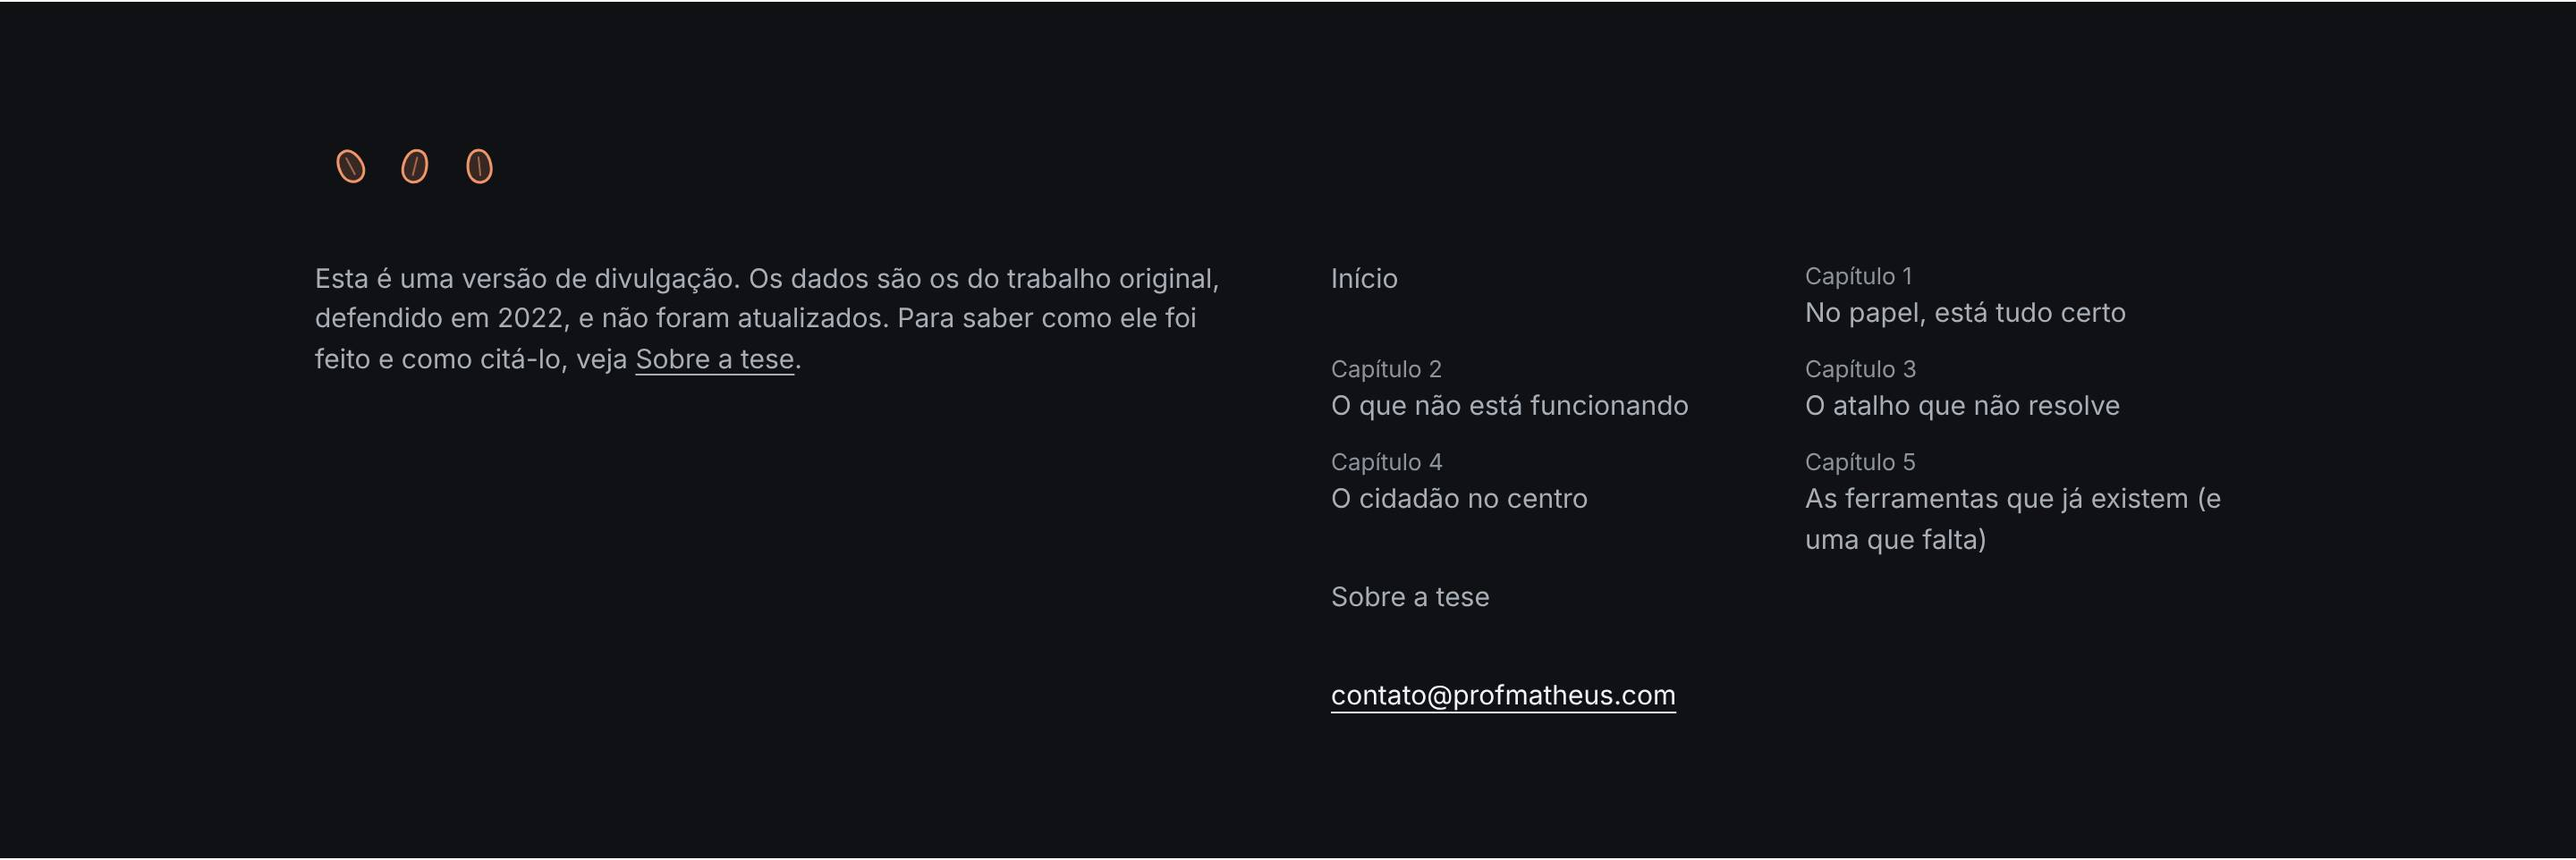
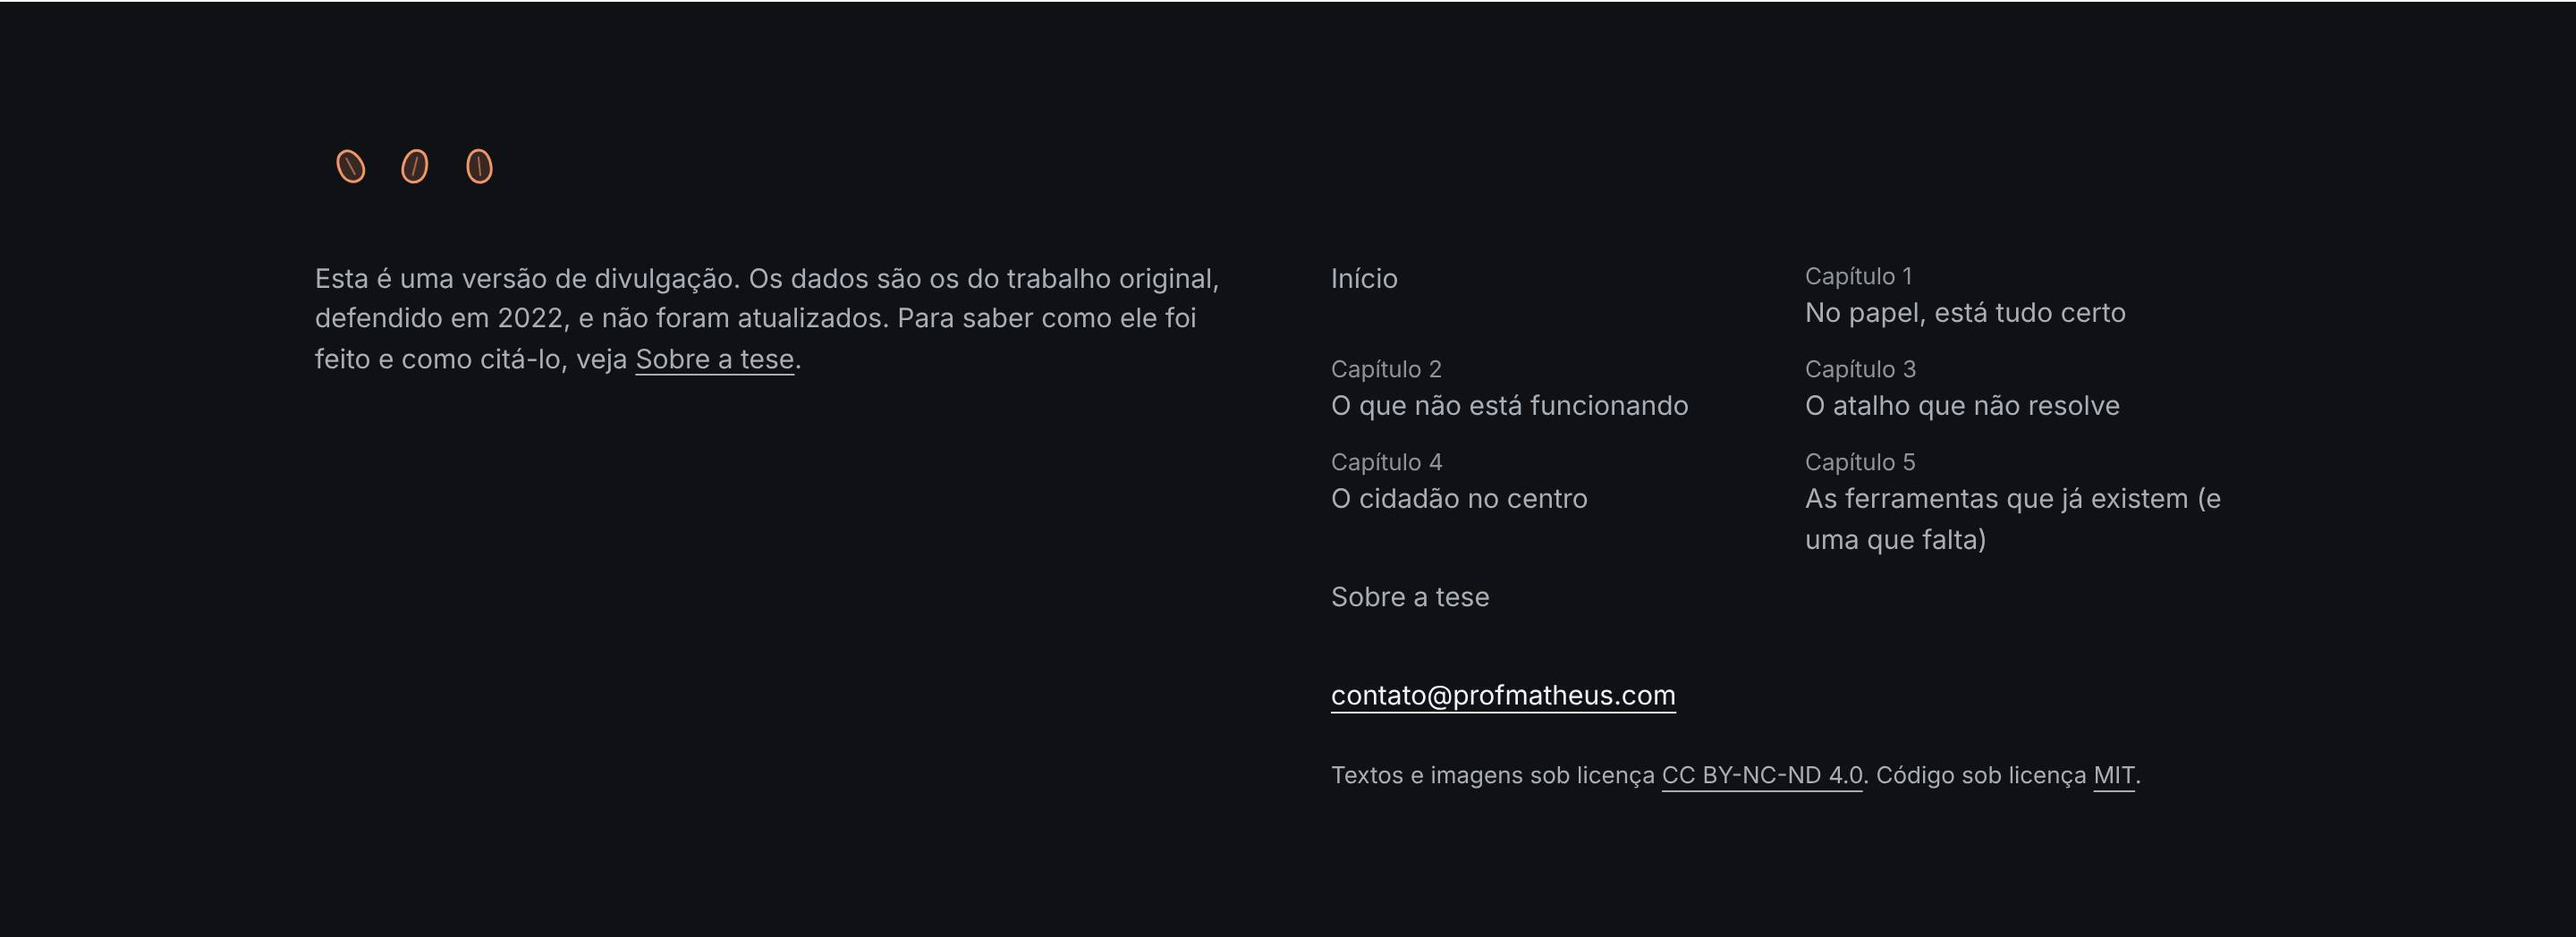
Licenças MIT e CC BY-NC-ND 4.0; linha T49 no rodapé (D76)
Claude-Session: https://claude.ai/code/session_01DNveZx4JkF5p4oM4SR99yX

diff --git a/LICENSE-CONTEUDO.md b/LICENSE-CONTEUDO.md
@@ -1,0 +1,186 @@
+# Licença dos textos e das imagens
+
+Os textos e as imagens deste repositório e do site
+[tese.profmatheuspassos.com.br](https://tese.profmatheuspassos.com.br) são de Matheus Passos
+Silva e estão sob a licença **Creative Commons Atribuição-NãoComercial-SemDerivações 4.0
+Internacional (CC BY-NC-ND 4.0)**: podem ser copiados e compartilhados, com crédito ao autor,
+sem fins comerciais e sem alterações.
+
+Resumo oficial em português: https://creativecommons.org/licenses/by-nc-nd/4.0/deed.pt-br
+
+## O que esta licença cobre
+
+- `src/content/`: o texto das páginas do site;
+- `src/i18n/`: os rótulos de interface;
+- `src/data/dados.json`: a organização dos dados mostrados no site (os números citados de outras
+  fontes, sempre com a fonte, seguem as condições dessas fontes);
+- `public/img/`: as imagens ilustrativas e a imagem de compartilhamento;
+- `docs/`: notas de leitura, decisões, rastreabilidade, planos e capturas.
+
+O código (scripts, componentes, estilos, configuração e workflow) está sob a licença MIT, no
+arquivo `LICENSE`. A tese original não está neste repositório; a versão oficial é a do
+repositório da Universidade de Lisboa (https://hdl.handle.net/10451/57093), com as condições
+de lá.
+
+## Texto jurídico da licença
+
+O texto abaixo é o texto oficial da licença, em inglês
+(https://creativecommons.org/licenses/by-nc-nd/4.0/legalcode).
+
+```text
+Creative Commons Attribution-NonCommercial-NoDerivatives 4.0 International
+
+  Creative Commons Corporation (“Creative Commons”) is not a law firm and does not provide legal services or legal advice. Distribution of Creative Commons public licenses does not create a lawyer-client or other relationship. Creative Commons makes its licenses and related information available on an “as-is” basis. Creative Commons gives no warranties regarding its licenses, any material licensed under their terms and conditions, or any related information. Creative Commons disclaims all liability for damages resulting from their use to the fullest extent possible.
+
+Using Creative Commons Public Licenses
+
+Creative Commons public licenses provide a standard set of terms and conditions that creators and other rights holders may use to share original works of authorship and other material subject to copyright and certain other rights specified in the public license below. The following considerations are for informational purposes only, are not exhaustive, and do not form part of our licenses.
+
+Considerations for licensors: Our public licenses are intended for use by those authorized to give the public permission to use material in ways otherwise restricted by copyright and certain other rights. Our licenses are irrevocable. Licensors should read and understand the terms and conditions of the license they choose before applying it. Licensors should also secure all rights necessary before applying our licenses so that the public can reuse the material as expected. Licensors should clearly mark any material not subject to the license. This includes other CC-licensed material, or material used under an exception or limitation to copyright. More considerations for licensors.
+
+Considerations for the public: By using one of our public licenses, a licensor grants the public permission to use the licensed material under specified terms and conditions. If the licensor’s permission is not necessary for any reason–for example, because of any applicable exception or limitation to copyright–then that use is not regulated by the license. Our licenses grant only permissions under copyright and certain other rights that a licensor has authority to grant. Use of the licensed material may still be restricted for other reasons, including because others have copyright or other rights in the material. A licensor may make special requests, such as asking that all changes be marked or described. Although not required by our licenses, you are encouraged to respect those requests where reasonable. More considerations for the public.
+
+Creative Commons Attribution-NonCommercial-NoDerivatives 4.0 International Public License
+
+By exercising the Licensed Rights (defined below), You accept and agree to be bound by the terms and conditions of this Creative Commons Attribution-NonCommercial-NoDerivatives 4.0 International Public License ("Public License"). To the extent this Public License may be interpreted as a contract, You are granted the Licensed Rights in consideration of Your acceptance of these terms and conditions, and the Licensor grants You such rights in consideration of benefits the Licensor receives from making the Licensed Material available under these terms and conditions.
+
+Section 1 – Definitions.
+
+     a.	Adapted Material means material subject to Copyright and Similar Rights that is derived from or based upon the Licensed Material and in which the Licensed Material is translated, altered, arranged, transformed, or otherwise modified in a manner requiring permission under the Copyright and Similar Rights held by the Licensor. For purposes of this Public License, where the Licensed Material is a musical work, performance, or sound recording, Adapted Material is always produced where the Licensed Material is synched in timed relation with a moving image.
+
+     b.	Copyright and Similar Rights means copyright and/or similar rights closely related to copyright including, without limitation, performance, broadcast, sound recording, and Sui Generis Database Rights, without regard to how the rights are labeled or categorized. For purposes of this Public License, the rights specified in Section 2(b)(1)-(2) are not Copyright and Similar Rights.
+
+     c.	Effective Technological Measures means those measures that, in the absence of proper authority, may not be circumvented under laws fulfilling obligations under Article 11 of the WIPO Copyright Treaty adopted on December 20, 1996, and/or similar international agreements.
+
+     d.	Exceptions and Limitations means fair use, fair dealing, and/or any other exception or limitation to Copyright and Similar Rights that applies to Your use of the Licensed Material.
+
+     e.	Licensed Material means the artistic or literary work, database, or other material to which the Licensor applied this Public License.
+
+     f.	Licensed Rights means the rights granted to You subject to the terms and conditions of this Public License, which are limited to all Copyright and Similar Rights that apply to Your use of the Licensed Material and that the Licensor has authority to license.
+
+     g.	Licensor means the individual(s) or entity(ies) granting rights under this Public License.
+
+     h.	NonCommercial means not primarily intended for or directed towards commercial advantage or monetary compensation. For purposes of this Public License, the exchange of the Licensed Material for other material subject to Copyright and Similar Rights by digital file-sharing or similar means is NonCommercial provided there is no payment of monetary compensation in connection with the exchange.
+
+     i.	Share means to provide material to the public by any means or process that requires permission under the Licensed Rights, such as reproduction, public display, public performance, distribution, dissemination, communication, or importation, and to make material available to the public including in ways that members of the public may access the material from a place and at a time individually chosen by them.
+
+     j.	Sui Generis Database Rights means rights other than copyright resulting from Directive 96/9/EC of the European Parliament and of the Council of 11 March 1996 on the legal protection of databases, as amended and/or succeeded, as well as other essentially equivalent rights anywhere in the world.
+
+     k.	You means the individual or entity exercising the Licensed Rights under this Public License. Your has a corresponding meaning.
+
+Section 2 – Scope.
+
+     a.	License grant.
+
+          1. Subject to the terms and conditions of this Public License, the Licensor hereby grants You a worldwide, royalty-free, non-sublicensable, non-exclusive, irrevocable license to exercise the Licensed Rights in the Licensed Material to:
+
+               A. reproduce and Share the Licensed Material, in whole or in part, for NonCommercial purposes only; and
+
+               B. produce and reproduce, but not Share, Adapted Material for NonCommercial purposes only.
+
+          2. Exceptions and Limitations. For the avoidance of doubt, where Exceptions and Limitations apply to Your use, this Public License does not apply, and You do not need to comply with its terms and conditions.
+
+          3. Term. The term of this Public License is specified in Section 6(a).
+
+          4. Media and formats; technical modifications allowed. The Licensor authorizes You to exercise the Licensed Rights in all media and formats whether now known or hereafter created, and to make technical modifications necessary to do so. The Licensor waives and/or agrees not to assert any right or authority to forbid You from making technical modifications necessary to exercise the Licensed Rights, including technical modifications necessary to circumvent Effective Technological Measures. For purposes of this Public License, simply making modifications authorized by this Section 2(a)(4) never produces Adapted Material.
+
+          5. Downstream recipients.
+               A. Offer from the Licensor – Licensed Material. Every recipient of the Licensed Material automatically receives an offer from the Licensor to exercise the Licensed Rights under the terms and conditions of this Public License.
+
+               B. No downstream restrictions. You may not offer or impose any additional or different terms or conditions on, or apply any Effective Technological Measures to, the Licensed Material if doing so restricts exercise of the Licensed Rights by any recipient of the Licensed Material.
+
+          6. No endorsement. Nothing in this Public License constitutes or may be construed as permission to assert or imply that You are, or that Your use of the Licensed Material is, connected with, or sponsored, endorsed, or granted official status by, the Licensor or others designated to receive attribution as provided in Section 3(a)(1)(A)(i).
+
+     b.	Other rights.
+
+          1. Moral rights, such as the right of integrity, are not licensed under this Public License, nor are publicity, privacy, and/or other similar personality rights; however, to the extent possible, the Licensor waives and/or agrees not to assert any such rights held by the Licensor to the limited extent necessary to allow You to exercise the Licensed Rights, but not otherwise.
+
+          2. Patent and trademark rights are not licensed under this Public License.
+
+          3. To the extent possible, the Licensor waives any right to collect royalties from You for the exercise of the Licensed Rights, whether directly or through a collecting society under any voluntary or waivable statutory or compulsory licensing scheme. In all other cases the Licensor expressly reserves any right to collect such royalties, including when the Licensed Material is used other than for NonCommercial purposes.
+
+Section 3 – License Conditions.
+
+Your exercise of the Licensed Rights is expressly made subject to the following conditions.
+
+     a.	Attribution.
+
+          1. If You Share the Licensed Material, You must:
+
+               A. retain the following if it is supplied by the Licensor with the Licensed Material:
+
+                    i.	identification of the creator(s) of the Licensed Material and any others designated to receive attribution, in any reasonable manner requested by the Licensor (including by pseudonym if designated);
+
+                    ii.	a copyright notice;
+
+                    iii. a notice that refers to this Public License;
+
+                    iv.	a notice that refers to the disclaimer of warranties;
+
+                    v.	a URI or hyperlink to the Licensed Material to the extent reasonably practicable;
+
+               B. indicate if You modified the Licensed Material and retain an indication of any previous modifications; and
+
+               C. indicate the Licensed Material is licensed under this Public License, and include the text of, or the URI or hyperlink to, this Public License.
+
+          For the avoidance of doubt, You do not have permission under this Public License to Share Adapted Material.
+
+          2. You may satisfy the conditions in Section 3(a)(1) in any reasonable manner based on the medium, means, and context in which You Share the Licensed Material. For example, it may be reasonable to satisfy the conditions by providing a URI or hyperlink to a resource that includes the required information.
+
+          3. If requested by the Licensor, You must remove any of the information required by Section 3(a)(1)(A) to the extent reasonably practicable.
+
+Section 4 – Sui Generis Database Rights.
+
+Where the Licensed Rights include Sui Generis Database Rights that apply to Your use of the Licensed Material:
+
+     a.	for the avoidance of doubt, Section 2(a)(1) grants You the right to extract, reuse, reproduce, and Share all or a substantial portion of the contents of the database for NonCommercial purposes only and provided You do not Share Adapted Material;
+
+     b.	if You include all or a substantial portion of the database contents in a database in which You have Sui Generis Database Rights, then the database in which You have Sui Generis Database Rights (but not its individual contents) is Adapted Material; and
+
+     c.	You must comply with the conditions in Section 3(a) if You Share all or a substantial portion of the contents of the database.
+For the avoidance of doubt, this Section 4 supplements and does not replace Your obligations under this Public License where the Licensed Rights include other Copyright and Similar Rights.
+
+Section 5 – Disclaimer of Warranties and Limitation of Liability.
+
+     a.	Unless otherwise separately undertaken by the Licensor, to the extent possible, the Licensor offers the Licensed Material as-is and as-available, and makes no representations or warranties of any kind concerning the Licensed Material, whether express, implied, statutory, or other. This includes, without limitation, warranties of title, merchantability, fitness for a particular purpose, non-infringement, absence of latent or other defects, accuracy, or the presence or absence of errors, whether or not known or discoverable. Where disclaimers of warranties are not allowed in full or in part, this disclaimer may not apply to You.
+
+     b.	To the extent possible, in no event will the Licensor be liable to You on any legal theory (including, without limitation, negligence) or otherwise for any direct, special, indirect, incidental, consequential, punitive, exemplary, or other losses, costs, expenses, or damages arising out of this Public License or use of the Licensed Material, even if the Licensor has been advised of the possibility of such losses, costs, expenses, or damages. Where a limitation of liability is not allowed in full or in part, this limitation may not apply to You.
+
+     c.	The disclaimer of warranties and limitation of liability provided above shall be interpreted in a manner that, to the extent possible, most closely approximates an absolute disclaimer and waiver of all liability.
+
+Section 6 – Term and Termination.
+
+     a.	This Public License applies for the term of the Copyright and Similar Rights licensed here. However, if You fail to comply with this Public License, then Your rights under this Public License terminate automatically.
+
+     b.	Where Your right to use the Licensed Material has terminated under Section 6(a), it reinstates:
+
+          1. automatically as of the date the violation is cured, provided it is cured within 30 days of Your discovery of the violation; or
+
+          2. upon express reinstatement by the Licensor.
+
+     For the avoidance of doubt, this Section 6(b) does not affect any right the Licensor may have to seek remedies for Your violations of this Public License.
+
+     c.	For the avoidance of doubt, the Licensor may also offer the Licensed Material under separate terms or conditions or stop distributing the Licensed Material at any time; however, doing so will not terminate this Public License.
+
+     d.	Sections 1, 5, 6, 7, and 8 survive termination of this Public License.
+
+Section 7 – Other Terms and Conditions.
+
+     a.	The Licensor shall not be bound by any additional or different terms or conditions communicated by You unless expressly agreed.
+
+     b.	Any arrangements, understandings, or agreements regarding the Licensed Material not stated herein are separate from and independent of the terms and conditions of this Public License.
+
+Section 8 – Interpretation.
+
+     a.	For the avoidance of doubt, this Public License does not, and shall not be interpreted to, reduce, limit, restrict, or impose conditions on any use of the Licensed Material that could lawfully be made without permission under this Public License.
+
+     b.	To the extent possible, if any provision of this Public License is deemed unenforceable, it shall be automatically reformed to the minimum extent necessary to make it enforceable. If the provision cannot be reformed, it shall be severed from this Public License without affecting the enforceability of the remaining terms and conditions.
+
+     c.	No term or condition of this Public License will be waived and no failure to comply consented to unless expressly agreed to by the Licensor.
+
+     d.	Nothing in this Public License constitutes or may be interpreted as a limitation upon, or waiver of, any privileges and immunities that apply to the Licensor or You, including from the legal processes of any jurisdiction or authority.
+
+Creative Commons is not a party to its public licenses. Notwithstanding, Creative Commons may elect to apply one of its public licenses to material it publishes and in those instances will be considered the “Licensor.” Except for the limited purpose of indicating that material is shared under a Creative Commons public license or as otherwise permitted by the Creative Commons policies published at creativecommons.org/policies, Creative Commons does not authorize the use of the trademark “Creative Commons” or any other trademark or logo of Creative Commons without its prior written consent including, without limitation, in connection with any unauthorized modifications to any of its public licenses or any other arrangements, understandings, or agreements concerning use of licensed material. For the avoidance of doubt, this paragraph does not form part of the public licenses.
+
+Creative Commons may be contacted at creativecommons.org.
+```
